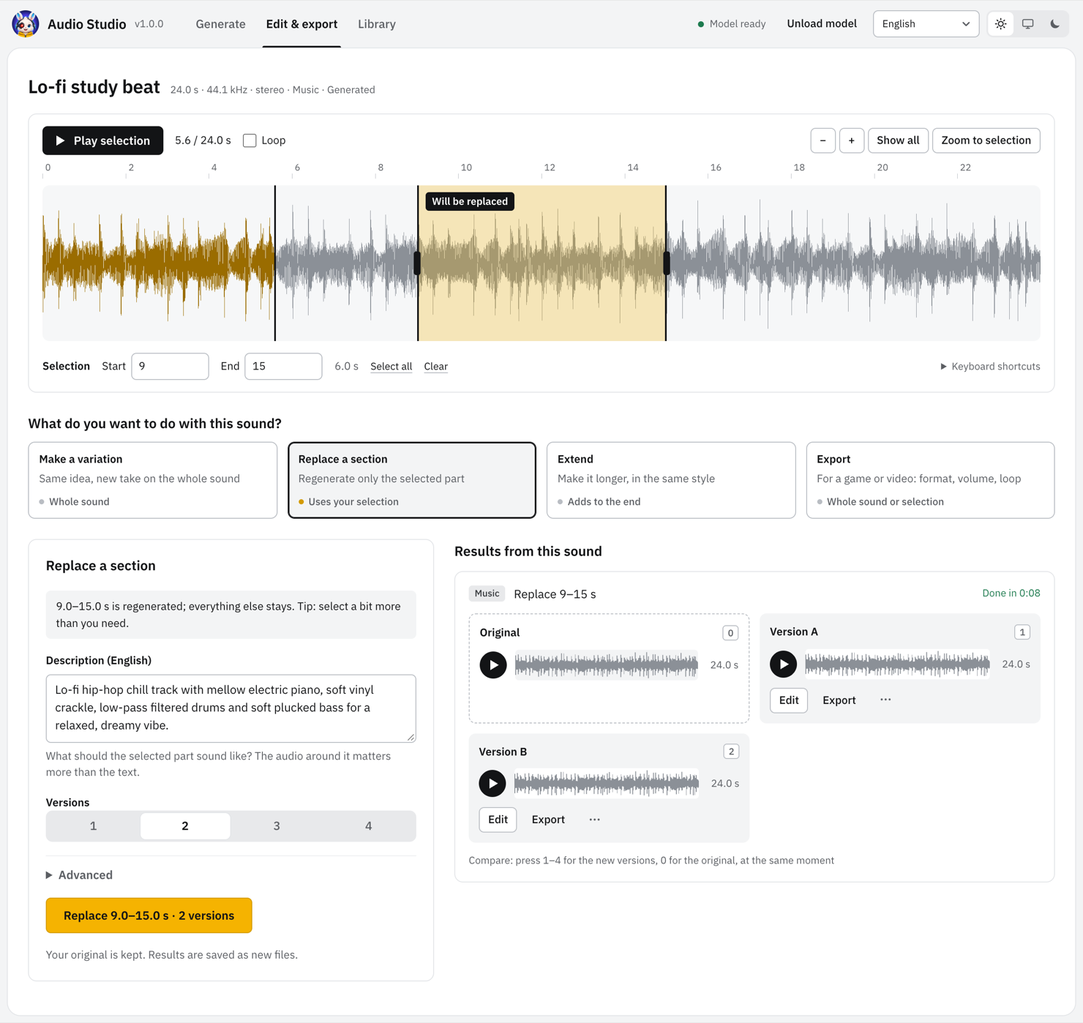
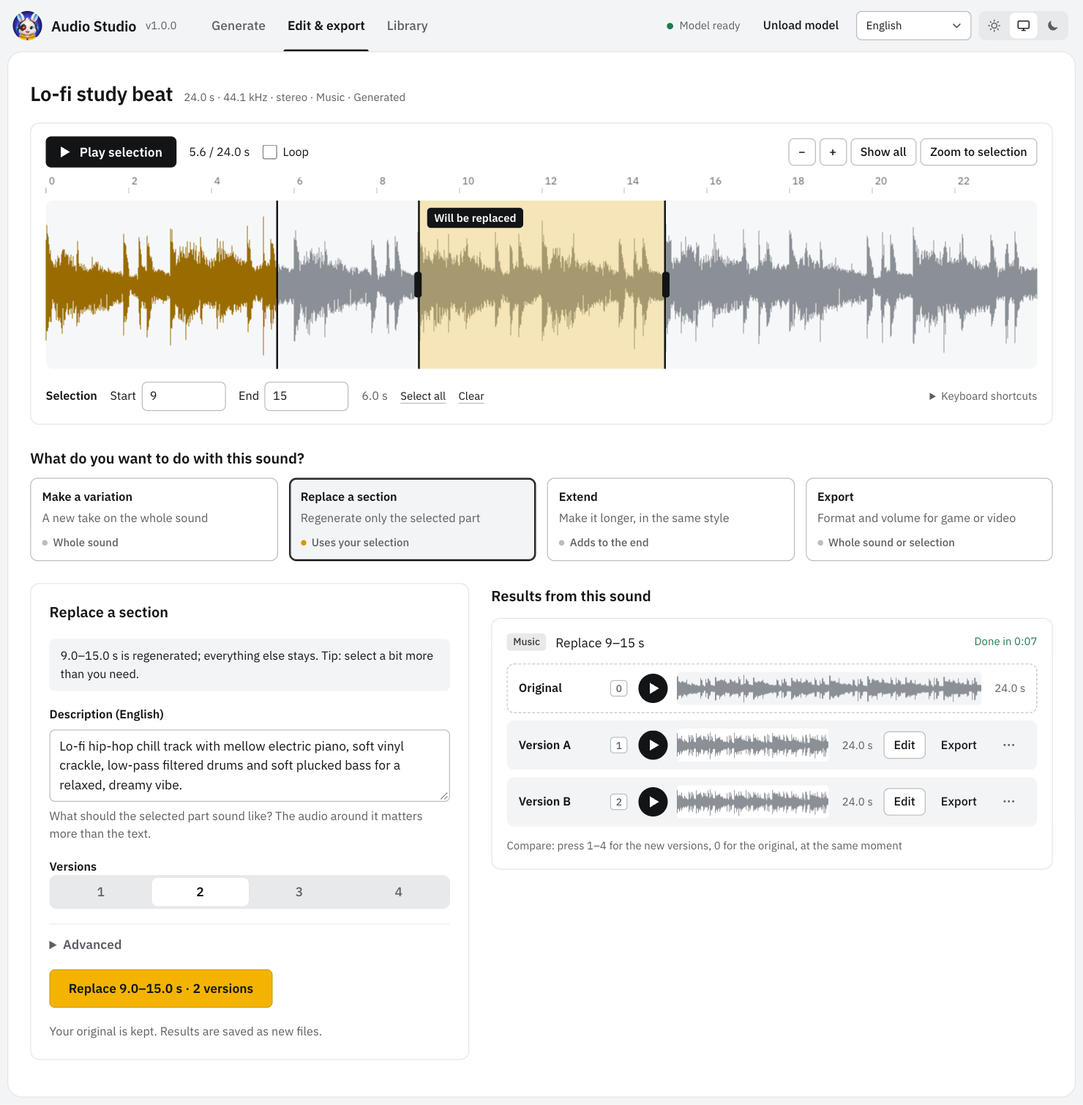
Web UI polish from the README screenshots (GAME-243)
- Edit page: "Play selection" updates as soon as the selection is typed in
  the Start / End fields.
- Description boxes grow with their text (up to 40% of the window), so the
  example prompts are never cut off.
- Edit results: one row per sound (original, A, B, ...) with aligned
  waveforms; rows stack when the results column is narrow.
- Generate results show the user's title, with the prompt under it.
- Help texts and task cards: rewrote strings that left one-character last
  lines or wrapped a task card; text-wrap: pretty and Japanese phrase breaks.
- Results column can no longer be widened by its content (minmax(0, 1fr)).
- README web UI screenshots retaken (real model, en / ja / zh, light / dark).
- Browser regression tests for all of the above.

diff --git a/src/audio_studio_mcp/static/i18n.js b/src/audio_studio_mcp/static/i18n.js
@@ -3,7 +3,7 @@ window.I18N = {
   en: {
     "settings.theme": "Theme", "settings.light": "Light", "settings.system": "Follow the system", "settings.dark": "Dark",
     "nav.generate": "Generate", "nav.edit": "Edit & export", "nav.library": "Library",
-    "task.title": "What do you want to do with this sound?", "task.export": "Export", "task.exportDesc": "For a game or video: format, volume, loop", "task.scope.whole": "Whole sound", "task.scope.sel": "Uses your selection", "task.scope.end": "Adds to the end", "task.scope.either": "Whole sound or selection", "wave.dragHint": "Drag across the waveform to choose the part to replace", "wave.region.inpaint": "Will be replaced", "wave.region.export": "Will be exported", "wave.wholeNote": "The whole sound is used", "wave.ghost": "+{len} new", "wave.shortcuts": "Keyboard shortcuts", "act.export": "Export", "act.downloadWav": "Download original WAV", "act.reuse": "Reuse settings", "cand.original": "Original", "cand.abHintOrig": "Compare: press 1–4 for the new versions, 0 for the original, at the same moment", "jobs.nextHint": "Pick the version you like, then Edit it or Export it for your game or video.", "jobs.gotIt": "Got it", "exp.submitLen": "Export {len} as {fmt}", "edit.jobInpaint": "Replace {range}", "edit.jobContinue": "Extend to {len}", "gen.durationAuto": "Auto ({def} s)", "gen.durationOther": "Other",
+    "task.title": "What do you want to do with this sound?", "task.export": "Export", "task.exportDesc": "Format and volume for game or video", "task.scope.whole": "Whole sound", "task.scope.sel": "Uses your selection", "task.scope.end": "Adds to the end", "task.scope.either": "Whole sound or selection", "wave.dragHint": "Drag across the waveform to choose the part to replace", "wave.region.inpaint": "Will be replaced", "wave.region.export": "Will be exported", "wave.wholeNote": "The whole sound is used", "wave.ghost": "+{len} new", "wave.shortcuts": "Keyboard shortcuts", "act.export": "Export", "act.downloadWav": "Download original WAV", "act.reuse": "Reuse settings", "cand.original": "Original", "cand.abHintOrig": "Compare: press 1–4 for the new versions, 0 for the original, at the same moment", "jobs.nextHint": "Pick the version you like, then Edit it or Export it for your game or video.", "jobs.gotIt": "Got it", "exp.submitLen": "Export {len} as {fmt}", "edit.jobInpaint": "Replace {range}", "edit.jobContinue": "Extend to {len}", "gen.durationAuto": "Auto ({def} s)", "gen.durationOther": "Other",
     "status.unload": "Unload model", "status.unloadHint": "Frees the 5–7 GB the model uses. It loads again on the next generation.",
     "status.loaded": "Model ready", "status.notLoaded": "Model loads on first use", "status.working": "Working",
     "status.offline": "Server unreachable", "status.unloaded": "Model unloaded, memory freed",
@@ -82,7 +82,7 @@ window.I18N = {
     "edit.unreadable": "{file} can't be read as audio (damaged or unsupported).",
     "edit.mono": "mono", "edit.stereo": "stereo", "edit.madeFrom": "Made from",
     "edit.aiTab": "Change with AI", "edit.exportTab": "Export", "edit.mode": "What to do",
-    "mode.variation": "Make a variation", "mode.variationDesc": "Same idea, new take on the whole sound",
+    "mode.variation": "Make a variation", "mode.variationDesc": "A new take on the whole sound",
     "mode.inpaint": "Replace a section", "mode.inpaintDesc": "Regenerate only the selected part",
     "mode.continue": "Extend", "mode.continueDesc": "Make it longer, in the same style",
     "edit.strength": "How different?", "edit.subtle": "Close to the original", "edit.loose": "Very different",
@@ -151,7 +151,7 @@ window.I18N = {
   ja: {
     "settings.theme": "テーマ", "settings.light": "ライト", "settings.system": "システムに合わせる", "settings.dark": "ダーク",
     "nav.generate": "生成", "nav.edit": "編集・書き出し", "nav.library": "ライブラリ",
-    "task.title": "この音をどうしますか？", "task.export": "書き出し", "task.exportDesc": "ゲーム・動画向けに形式・音量・ループを整える", "task.scope.whole": "音全体", "task.scope.sel": "選択範囲を使う", "task.scope.end": "末尾に追加", "task.scope.either": "全体または選択範囲", "wave.dragHint": "差し替える部分を波形の上でドラッグして選んでください", "wave.region.inpaint": "ここを差し替え", "wave.region.export": "書き出す範囲", "wave.wholeNote": "音全体が対象です", "wave.ghost": "+{len} 追加", "wave.shortcuts": "キーボード操作", "act.export": "書き出し", "act.downloadWav": "元の WAV をダウンロード", "act.reuse": "この設定を使う", "cand.original": "元の音", "cand.abHintOrig": "聴き比べ：1〜4 キーで新しいバージョン、0 で元の音（同じ位置のまま）", "jobs.nextHint": "気に入ったバージョンを選んで「編集」か「書き出し」へ。", "jobs.gotIt": "OK", "exp.submitLen": "{len} を {fmt} で書き出し", "edit.jobInpaint": "{range} を差し替え", "edit.jobContinue": "{len} に延長", "gen.durationAuto": "おまかせ（{def} 秒）", "gen.durationOther": "その他",
+    "task.title": "この音をどうしますか？", "task.export": "書き出し", "task.exportDesc": "ゲーム・動画用に形式や音量を整える", "task.scope.whole": "音全体", "task.scope.sel": "選択範囲を使う", "task.scope.end": "末尾に追加", "task.scope.either": "全体または選択範囲", "wave.dragHint": "差し替える部分を波形の上でドラッグして選んでください", "wave.region.inpaint": "ここを差し替え", "wave.region.export": "書き出す範囲", "wave.wholeNote": "音全体が対象です", "wave.ghost": "+{len} 追加", "wave.shortcuts": "キーボード操作", "act.export": "書き出し", "act.downloadWav": "元の WAV をダウンロード", "act.reuse": "この設定を使う", "cand.original": "元の音", "cand.abHintOrig": "聴き比べ：1〜4 キーで新しいバージョン、0 で元の音（同じ位置のまま）", "jobs.nextHint": "気に入ったバージョンを選んで「編集」か「書き出し」へ。", "jobs.gotIt": "OK", "exp.submitLen": "{len} を {fmt} で書き出し", "edit.jobInpaint": "{range} を差し替え", "edit.jobContinue": "{len} に延長", "gen.durationAuto": "おまかせ（{def} 秒）", "gen.durationOther": "その他",
     "status.unload": "モデルを解放", "status.unloadHint": "モデルが使っている 5〜7 GB のメモリを解放します。次の生成でまた読み込みます。",
     "status.loaded": "モデル準備完了", "status.notLoaded": "初回の生成時にモデルを読み込みます", "status.working": "処理中",
     "status.offline": "サーバーに接続できません", "status.unloaded": "モデルをアンロードしてメモリを解放しました",
@@ -239,7 +239,7 @@ window.I18N = {
     "edit.atMax": "この音はすでに最大の長さ（{max} 秒）です。",
     "edit.prompt": "説明（英語）",
     "edit.promptHint.variation": "結果を説明します。同じ雰囲気ならそのまま、変えたいなら書き換えます（例：別の楽器）。",
-    "edit.promptHint.inpaint": "選択部分をどんな音にするか。説明文より前後の音の影響が大きくなります。",
+    "edit.promptHint.inpaint": "選択部分の音を説明します。前後の音の影響を強く受けます。",
     "edit.promptHint.continue": "任意。そのままなら同じ雰囲気で続けます。",
     "edit.inpaintSel": "{range} を作り直し、それ以外はそのまま残します。コツ：少し広めに選ぶと自然につながります。",
     "edit.inpaintNoSel": "波形をドラッグして、差し替える部分を選択してください。",
@@ -386,7 +386,7 @@ window.I18N = {
     "edit.extendHint": "当前 {now}，最长 {max} 秒。",
     "edit.atMax": "这个声音已经是最大时长（{max} 秒）。",
     "edit.prompt": "描述（英文）",
-    "edit.promptHint.variation": "描述想要的结果。保持原文则风格不变，改写则会变化（例如换一种乐器）。",
+    "edit.promptHint.variation": "描述想要的结果。保持原文则风格不变，改写可以换成别的乐器等。",
     "edit.promptHint.inpaint": "选中的部分应该是什么声音？前后的音频比文字影响更大。",
     "edit.promptHint.continue": "可选。保持不变则按原风格继续。",
     "edit.inpaintSel": "重新生成 {range}，其余部分保持不变。提示：选得稍宽一些衔接更自然。",

diff --git a/src/audio_studio_mcp/static/app.css b/src/audio_studio_mcp/static/app.css
@@ -179,8 +179,8 @@ select {
 .link-btn:disabled { color: var(--muted); cursor: not-allowed; text-decoration: none; }
 
 /* layout */
-#page-generate { display: grid; grid-template-columns: minmax(340px, 460px) 1fr; gap: 24px; align-items: start; }
-@media (max-width: 900px) { #page-generate { grid-template-columns: 1fr; } }
+#page-generate { display: grid; grid-template-columns: minmax(340px, 460px) minmax(0, 1fr); gap: 24px; align-items: start; }
+@media (max-width: 900px) { #page-generate { grid-template-columns: minmax(0, 1fr); } }
 .panel { background: var(--surface); border: 1px solid var(--border); border-radius: var(--radius); }
 .form { padding: 20px; display: flex; flex-direction: column; gap: 16px; position: sticky; top: 80px; }
 .panel-title { font-size: 20px; letter-spacing: -0.01em; }
@@ -194,6 +194,10 @@ select {
 .field { display: flex; flex-direction: column; gap: 6px; min-width: 0; border: 0; padding: 0; margin: 0; }
 .field > label, .field > legend { font-weight: 600; font-size: 13px; padding: 0; }
 .hint { margin: 0; color: var(--muted); font-size: 13px; }
+/* No one-character last lines ("す。"): balance short help texts, and break
+   Japanese at phrase boundaries where the browser can. */
+.hint, .note, .mode-desc, .summary, .empty-state p, .tip { text-wrap: pretty; }
+:lang(ja) :is(.hint, .note, .mode-desc, .summary, .empty-state p, .tip) { word-break: auto-phrase; }
 .row { display: grid; grid-template-columns: repeat(auto-fit, minmax(110px, 1fr)); gap: 12px; align-items: end; }
 /* segmented control: a grey track, the chosen option a raised white key */
 .segmented { display: flex; gap: 2px; padding: 3px; border-radius: 8px; background: var(--active); }
@@ -257,7 +261,10 @@ input.num { width: 96px; flex: none; font-variant-numeric: tabular-nums; }
 .recent-name { max-width: 100%; overflow: hidden; text-overflow: ellipsis; white-space: nowrap; }
 .job { padding: 16px; display: flex; flex-direction: column; gap: 12px; }
 .job-head { display: flex; gap: 10px; align-items: flex-start; }
-.job-prompt { flex: 1; min-width: 0; overflow: hidden; text-overflow: ellipsis; display: -webkit-box; -webkit-line-clamp: 2; -webkit-box-orient: vertical; }
+.job-text { flex: 1; min-width: 0; display: flex; flex-direction: column; gap: 2px; }
+.job-prompt { overflow: hidden; text-overflow: ellipsis; display: -webkit-box; -webkit-line-clamp: 2; -webkit-box-orient: vertical; }
+.job-text:has(.job-sub) .job-prompt { font-weight: 600; }  /* the user's title, the prompt under it */
+.job-sub { font-size: 12px; color: var(--muted); overflow: hidden; text-overflow: ellipsis; white-space: nowrap; }
 .job-state { font-size: 12px; color: var(--muted); white-space: nowrap; display: inline-flex; align-items: center; gap: 6px; font-variant-numeric: tabular-nums; }
 .job[data-status="error"] .job-state { color: var(--danger); }
 .job[data-status="done"] .job-state { color: var(--ok); }
@@ -288,6 +295,20 @@ kbd {
 .cand-head { display: flex; justify-content: space-between; gap: 8px; font-size: 12px; }
 .cand-head strong { font-weight: 600; font-size: 13px; }
 .cand-actions, .item-actions { display: flex; gap: 6px; flex-wrap: wrap; align-items: center; }
+/* Edit page results: one row per sound (original, then A, B, …) so any number
+   of versions line up in the narrower column and the original, which has no
+   actions, simply lets its waveform run to the end of the row. */
+#edit-jobs .candidates { grid-template-columns: 1fr; gap: 8px; }
+#edit-jobs .cand, #edit-jobs .orig { display: grid; grid-template-columns: 8.5em minmax(0, 1fr) auto; align-items: center; gap: 12px; padding: 8px 12px; }
+#edit-jobs .orig .mini-wave { grid-column: 2 / -1; }
+#edit-jobs .cand { border: 1px solid transparent; }  /* same inset as the original's dashed edge */
+#edit-jobs .cand-actions { flex-wrap: nowrap; }
+#edit-jobs { container-type: inline-size; }
+@container (max-width: 540px) {  /* a narrow results column: label, waveform and actions stack */
+  #edit-jobs .cand, #edit-jobs .orig { grid-template-columns: minmax(0, 1fr); gap: 8px; padding: 12px; }
+  #edit-jobs .orig .mini-wave { grid-column: auto; }
+  #edit-jobs .cand-actions { flex-wrap: wrap; }
+}
 .job-foot { display: flex; gap: 12px; align-items: center; justify-content: space-between; flex-wrap: wrap; }
 .job-steps { margin: 0; }
 
@@ -423,8 +444,8 @@ mark { background: var(--sel-bg); color: inherit; border-radius: 2px; }
   position: absolute; right: 0; top: 100%; z-index: 5; margin: 6px 0 0; max-width: 520px; padding: 10px 12px;
   background: var(--surface); border: 1px solid var(--border); border-radius: 8px; box-shadow: 0 8px 24px rgba(0,0,0,.14); color: var(--text);
 }
-.edit-body { display: grid; grid-template-columns: minmax(340px, 480px) 1fr; gap: 24px; align-items: start; margin-top: 24px; }
-@media (max-width: 900px) { .edit-body { grid-template-columns: 1fr; } }
+.edit-body { display: grid; grid-template-columns: minmax(340px, 480px) minmax(0, 1fr); gap: 24px; align-items: start; margin-top: 24px; }
+@media (max-width: 900px) { .edit-body { grid-template-columns: minmax(0, 1fr); } }
 .edit-tools { overflow: visible; }
 .subtabs { display: flex; gap: 4px; padding: 0 12px; border-bottom: 1px solid var(--border); }
 .subtabs button {

diff --git a/src/audio_studio_mcp/static/app.js b/src/audio_studio_mcp/static/app.js
@@ -490,7 +490,12 @@ function jobTitle(job) {
     if (a.mode === "continue") return t("edit.jobContinue", { len: a.duration_seconds ? `${a.duration_seconds} s` : "—" });
     return t(`mode.${a.mode}`);
   }
-  return promptLabel(a) || "—";
+  return (a.title && a.title.trim()) || promptLabel(a) || "—";
+}
+// Under a titled result: the prompt it was made from.
+function jobSubtitle(job) {
+  const a = job.arguments || {};
+  return job.tool === "generate_audio" && a.title && a.title.trim() ? promptLabel(a) : "";
 }
 // Full detail for the title tooltip: the prompt, the input, the processing steps.
 function jobDetail(job) {
@@ -546,7 +551,9 @@ function jobCard(job) {
   const active = job.status === "queued" || job.status === "running";
   const head = el("div", { class: "job-head" },
     el("span", { class: "badge", text: jobBadge(job) }),
-    el("span", { class: "job-prompt", title: jobDetail(job), text: jobTitle(job) }),
+    el("div", { class: "job-text", title: jobDetail(job) },
+      el("span", { class: "job-prompt", text: jobTitle(job) }),
+      jobSubtitle(job) ? el("span", { class: "job-sub", text: jobSubtitle(job) }) : null),
     el("span", { class: "job-state" }, active ? el("span", { class: "spinner", "aria-hidden": "true" }) : null,
       el("span", { class: "job-state-text", text: jobStateText(job) })));
   const card = el("article", { class: "panel job", dataset: { status: job.status, id: job.id, tool: job.tool }, onkeydown: (e) => abKeys(e, card) }, head);
@@ -848,7 +855,41 @@ function initLibrary() {
   });
 }
 
+// Description boxes grow with their text (up to 40% of the window) so a long
+// prompt is never cut off. Values are also set from code (examples, reuse,
+// opening a sound), so the value setter refits too; a width change (window,
+// a page becoming visible) refits through the ResizeObserver.
+function fitTextarea(ta) {
+  if (!ta.offsetWidth) return;  // hidden: refit when it gets a width
+  const cs = getComputedStyle(ta);
+  ta.style.height = "auto";
+  const h = ta.scrollHeight + parseFloat(cs.borderTopWidth) + parseFloat(cs.borderBottomWidth);
+  ta.style.height = `${Math.ceil(Math.min(h, window.innerHeight * 0.4))}px`;
+}
+function initAutoGrow() {
+  const value = Object.getOwnPropertyDescriptor(HTMLTextAreaElement.prototype, "value");
+  const widths = new WeakMap();
+  const ro = new ResizeObserver((entries) => {
+    for (const { target } of entries) {
+      if (widths.get(target) === target.offsetWidth) continue;  // our own height change
+      widths.set(target, target.offsetWidth);
+      fitTextarea(target);
+    }
+  });
+  for (const ta of document.querySelectorAll("textarea")) {
+    Object.defineProperty(ta, "value", {
+      configurable: true, get() { return value.get.call(this); },
+      set(v) { value.set.call(this, v); fitTextarea(this); },
+    });
+    ta.addEventListener("input", () => fitTextarea(ta));
+    ta.form && ta.form.addEventListener("reset", () => setTimeout(() => fitTextarea(ta)));
+    ro.observe(ta);
+  }
+  document.fonts.ready.then(() => document.querySelectorAll("textarea").forEach(fitTextarea));
+}
+
 // ── boot ─────────────────────────────────────────────────────────────────────
+initAutoGrow();
 Player.init();
 initSettings();
 initForm();

diff --git a/src/audio_studio_mcp/static/index.html b/src/audio_studio_mcp/static/index.html
@@ -263,7 +263,7 @@
 
             <div class="field">
               <label for="ai-prompt" id="ai-prompt-label" data-i18n="edit.prompt">Description (English)</label>
-              <textarea id="ai-prompt" name="prompt" rows="2" spellcheck="false"></textarea>
+              <textarea id="ai-prompt" name="prompt" rows="3" spellcheck="false"></textarea>
               <p class="hint" id="ai-prompt-hint"></p>
             </div>
 

diff --git a/src/audio_studio_mcp/static/editor.js b/src/audio_studio_mcp/static/editor.js
@@ -350,6 +350,7 @@ const Editor = {
     this.audio.loop = $("#w-loop").checked && !sel;
     if (!!sel !== had) $("#x-trim-sel").checked = !!sel;  // a new selection is usually what to export
     this.renderSelection(quiet);
+    this.renderTransport();  // "Play" ↔ "Play selection"
     this.draw();
     this.updateAiForm();
     this.updateExportForm();

diff --git a/tests/test_webui_browser.py b/tests/test_webui_browser.py
@@ -57,6 +57,44 @@ CONTRAST_JS = r"""
 KEYS_JS = r"""() => [...document.querySelectorAll("body *")].filter((n) => n.children.length === 0
   && /^[a-z]+\.[a-zA-Z.]+$/.test(n.textContent.trim()) && !n.closest("[hidden]")).map((n) => n.textContent.trim())"""
 
+# Help texts whose last line is one or two characters ("す。"), and task cards
+# whose description wraps (that makes the whole row of cards taller).
+ORPHANS_JS = r"""
+() => {
+  const lineTexts = (el) => {
+    const chars = [];
+    const walker = document.createTreeWalker(el, NodeFilter.SHOW_TEXT);
+    while (walker.nextNode()) {
+      const n = walker.currentNode;
+      for (let i = 0; i < n.length; i++) {
+        if (/\s/.test(n.data[i])) continue;
+        const r = document.createRange(); r.setStart(n, i); r.setEnd(n, i + 1);
+        const b = r.getBoundingClientRect();
+        if (b.width) chars.push([b.top + b.height / 2, n.data[i]]);
+      }
+    }
+    const lines = [];
+    for (const [y, c] of chars) {
+      const last = lines[lines.length - 1];
+      if (last && Math.abs(last.y - y) < 4) last.text += c; else lines.push({ y, text: c });
+    }
+    return lines.map((l) => l.text);
+  };
+  const out = [];
+  const blocks = "p, .hint, .note, .mode-desc, .mode-scope, .summary, .tip > span, .job-foot > span, .range-labels > span, label, legend, h1, h2, .task-title, .empty-title, .steps li span";
+  for (const el of document.querySelectorAll(blocks)) {
+    if (!el.offsetWidth || el.closest("[hidden]") || el.closest(".item, .job") && !el.closest(".job-foot")) continue;
+    if ([...el.querySelectorAll(blocks)].length) continue;  // check the innermost block
+    const lines = lineTexts(el);
+    if (lines.length < 2) continue;
+    if (el.matches(".mode-desc")) out.push({ kind: "wrapped-task", text: el.textContent.trim() });
+    const tail = lines[lines.length - 1].replace(/[。、．.,!?！？」』）)…:：]/g, "");
+    if ([...tail].length <= 2) out.push({ kind: "orphan", text: el.textContent.trim() });
+  }
+  return out;
+}
+"""
+
 
 def _free_port() -> int:
     with socket.socket() as s:
@@ -278,6 +316,7 @@ def test_editor_flow(web, browser, shots):
     page.fill("#w-end", "3")
     page.press("#w-end", "Enter")
     assert page.evaluate("Editor.sel") == {"a": 1.5, "b": 3}
+    assert page.text_content("#w-play-text") == "Play selection"  # without touching the waveform
     page.click("#ai-submit")
     page.wait_for_selector("#edit-jobs .job[data-status=done]", timeout=15000)
     job = page.evaluate("[...state.jobs.values()].find(j => j.tool === 'edit_audio')")
@@ -361,6 +400,7 @@ def test_editor_flow(web, browser, shots):
     page.click("#w-wave")
     page.keyboard.press("Escape")
     assert page.evaluate("Editor.sel") is None
+    assert page.text_content("#w-play-text") == "Play"
     _drag(page, "#w-wave", 0.6, 0.6)  # a click, not a drag
     assert page.evaluate("Editor.playhead") == pytest.approx(2.4, abs=0.05)
     page.keyboard.press("Space")
@@ -498,4 +538,84 @@ def test_jobs_queued_while_polling_are_not_lost(web, browser):
                            timeout=30000)
     statuses = page.evaluate("[...state.jobs.values()].filter((j) => (j.arguments.prompt || '').startsWith('race')).map((j) => j.status)")
     assert statuses == ["done"] * 5, statuses
+    assert not errors, errors
+
+
+def test_layout_polish(web, browser, shots):
+    """Titles on results, prompts never cut off, edit results in rows, no
+    one-character last lines or wrapped task cards in any language."""
+    errors: list[str] = []
+    page = _page(browser, web, "ja", "light", errors)
+    page.wait_for_selector("#examples .chip")
+    page.fill("#prompt", "untitled hum")
+    page.fill("#duration_seconds", "1")
+    page.click("#gen-form label:has(input[name=variations][value='1'])")
+    page.click("#gen-submit")
+    page.locator("#examples .chip").first.click()  # the long lo-fi example
+    page.fill("#duration_seconds", "3")
+    page.click("#advanced summary")
+    page.fill("#title", "雨の夜のカフェ")
+    page.click("#gen-submit")
+    card = page.locator("#jobs .job[data-status=done]", has_text="雨の夜のカフェ")
+    card.wait_for(timeout=15000)
+    assert card.locator(".job-prompt").text_content() == "雨の夜のカフェ"
+    assert card.locator(".job-sub").text_content().startswith("Lo-fi hip-hop")
+    # untitled results keep the prompt as their heading, without a subtitle
+    page.wait_for_selector("#jobs .job[data-status=done] >> text=untitled hum")
+    untitled = page.evaluate("""[...document.querySelectorAll('#jobs .job')].filter((n) => !state.jobs.get(n.dataset.id).arguments.title)
+        .map((n) => n.querySelectorAll('.job-sub').length)""")
+    assert untitled and not any(untitled)
+    for width in (1280, 1000, 800):  # the one-line prompt under the title never widens the page
+        page.set_viewport_size({"width": width, "height": 900})
+        assert page.evaluate("document.documentElement.scrollWidth <= innerWidth"), width
+    page.set_viewport_size({"width": 1360, "height": 900})
+    fits = "(sel) => { const t = document.querySelector(sel); return t.scrollHeight <= t.clientHeight + 1; }"
+    assert page.evaluate(fits, "#prompt")
+
+    card.locator(".cand-actions button").first.click()
+    page.wait_for_selector("#w-loading", state="hidden")
+    assert page.input_value("#ai-prompt").startswith("Lo-fi hip-hop")
+    assert page.evaluate(fits, "#ai-prompt"), "edit description is cut off"
+    page.fill("#ai-prompt", "x " * 400)  # very long text: grows only up to a limit
+    assert page.evaluate("document.querySelector('#ai-prompt').offsetHeight <= innerHeight * 0.4 + 1")
+    page.click("label.mode-card:has(input[value=variation])")
+    page.click("#ai-form label:has(input[name=variations][value='3'])")
+    page.fill("#ai-prompt", "rain")
+    page.click("#ai-submit")
+    page.wait_for_selector("#edit-jobs .job[data-status=done]", timeout=15000)
+    # original + A, B, C: one row each, waveforms starting at the same x
+    rows = page.evaluate("""[...document.querySelectorAll('#edit-jobs .job:first-child :is(.orig, .cand)')].map((n) => {
+        const r = n.getBoundingClientRect(), w = n.querySelector('.mini-wave-track').getBoundingClientRect();
+        return { top: r.top, left: r.left, width: r.width, wave: w.left }; })""")
+    assert len(rows) == 4
+    assert all(b["top"] > a["top"] for a, b in zip(rows, rows[1:]))
+    assert len({round(r["left"]) for r in rows}) == 1 and len({round(r["width"]) for r in rows}) == 1
+    assert len({round(r["wave"]) for r in rows}) == 1
+    page.screenshot(path=str(shots / "layout-edit-ja.png"), full_page=True)
+    # in a narrow results column (two-column page just above 900 px, or a phone) nothing overlaps
+    for width in (920, 1000, 600, 390):
+        page.set_viewport_size({"width": width, "height": 900})
+        assert page.evaluate("document.documentElement.scrollWidth <= innerWidth"), width
+        overlap = page.evaluate("""[...document.querySelectorAll('#edit-jobs .cand')].some((n) => {
+            const w = n.querySelector('.mini-wave-track').getBoundingClientRect(), tm = n.querySelector('.mini-time').getBoundingClientRect();
+            const a = n.querySelector('.cand-actions').getBoundingClientRect();
+            return w.width < 80 || (tm.right > a.left + 1 && tm.bottom > a.top + 1); })""")
+        assert not overlap, width
+    page.set_viewport_size({"width": 1360, "height": 900})
+
+    if sys.platform != "darwin":  # line breaks depend on the installed CJK fonts; checked on macOS
+        return
+
+    for lang in LANGS:
+        page.select_option("#lang", lang)
+        for width in (1280, 1440):
+            page.set_viewport_size({"width": width, "height": 900})
+            for mode in ("variation", "inpaint", "continue"):
+                page.click(f"label.mode-card:has(input[value={mode}])")
+                page.evaluate("Editor.setSel({ a: 0.5, b: 1.5 })")
+                bad = page.evaluate(ORPHANS_JS)
+                assert not bad, f"{lang} {width} {mode}: {bad}"
+            page.click("#st-export")
+            assert not page.evaluate(ORPHANS_JS), f"{lang} {width} export"
+    page.select_option("#lang", "auto")
     assert not errors, errors
